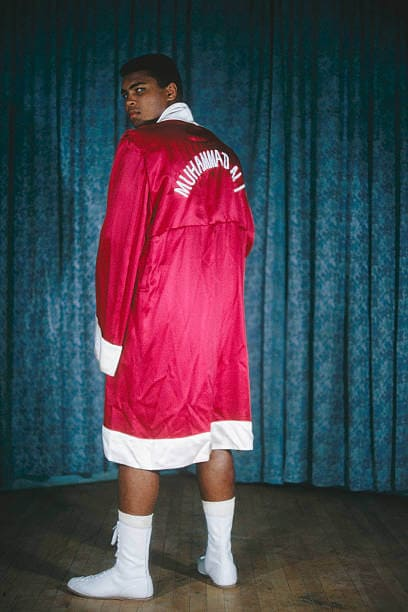
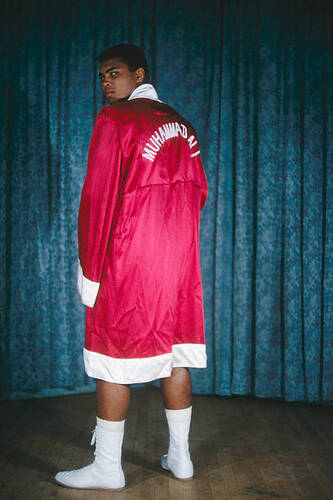
Add resized section images and remove height styles

diff --git a/assets/style.css b/assets/style.css
@@ -46,7 +46,7 @@ p {
 
 header {
     background-color: white;
-    height: 85px;
+    height: 90px;
     width: 100%;
     border-bottom: 2px solid black;
     position: fixed;
@@ -73,7 +73,9 @@ header a:hover {
     color: #dac593;
 }
 
-#logo a img {}
+#logo a img {
+    width: 100%;
+}
 
 .active {
     border-bottom: 1px solid black;
@@ -290,6 +292,10 @@ footer a {
 /* media querry for large screens (Laptops) */
 @media screen and (min-width: 992px) {
 
+    .margin-top {
+        margin-top: 50px;
+    }
+
     /* introduction */
     #introduction {
         display: flex;
@@ -326,18 +332,10 @@ footer a {
         justify-content: center;
     }
 
-    #early-years-section .section-image img {
-        height: 500px;
-    }
-
     #heavyweight-section {
         padding-top: 70px;
         flex-flow: row nowrap;
         justify-content: center;
-    }
-
-    #heavyweight-section .section-image img {
-        height: 500px;
     }
 
     #return-section {
@@ -350,10 +348,6 @@ footer a {
         padding-top: 70px;
         flex-flow: row nowrap;
         justify-content: center;
-    }
-
-    #later-years-section .section-image img {
-        height: 500px;
     }
 
     .section-text {

diff --git a/index.html b/index.html
@@ -147,6 +147,7 @@
         </div>
         <div class="section-image">
           <img
+            class="margin-top"
             src="assets/images/very-young-muhammad.jpeg"
             alt="Young Muhammad Ali in a boxing pose"
           />
@@ -191,6 +192,7 @@
         </div>
         <div class="section-image">
           <img
+            class="margin-top"
             src="assets/images/cool-Muhammad-ali.jpeg"
             alt="Muhammad Ali wearing red robe lookiing behind at camera"
           />
@@ -238,6 +240,7 @@
         </div>
         <div class="section-image">
           <img
+            class="margin-top"
             src="assets/images/boxing-muhammad.jpeg"
             alt="Muhammad Ali and his knocked out opponent in the ring"
           />
@@ -274,6 +277,7 @@
         </div>
         <div class="section-image">
           <img
+            class="margin-top"
             src="assets/images/cool-old-muhammad.jpeg"
             alt="Muhammad Ali posing for camera doing boxing pose"
           />
